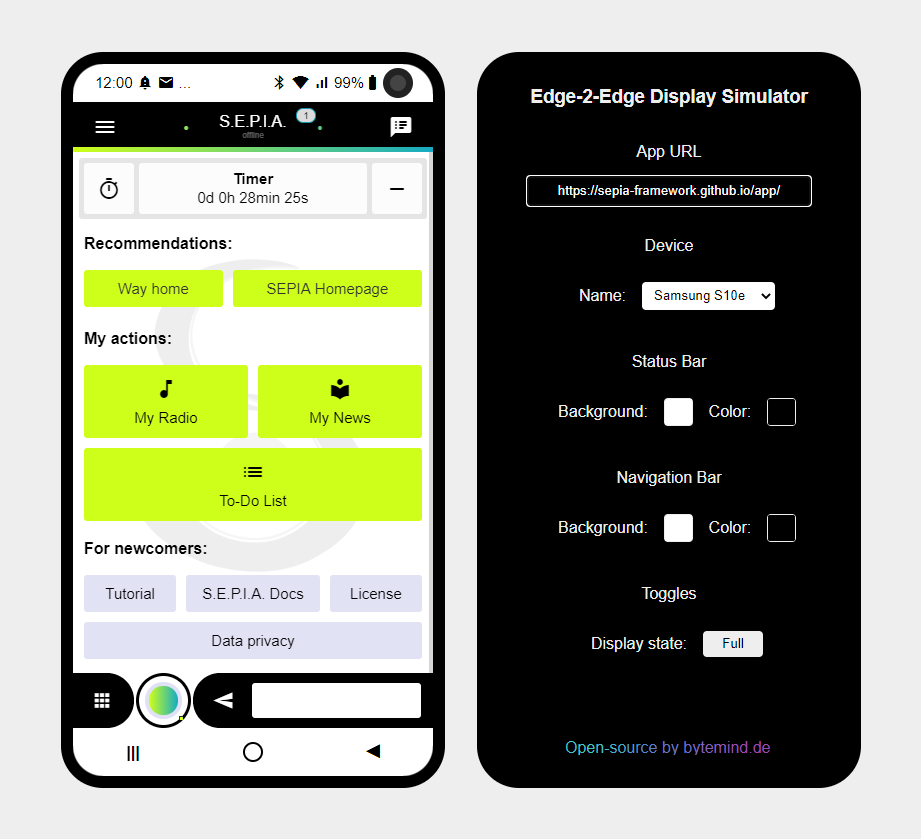
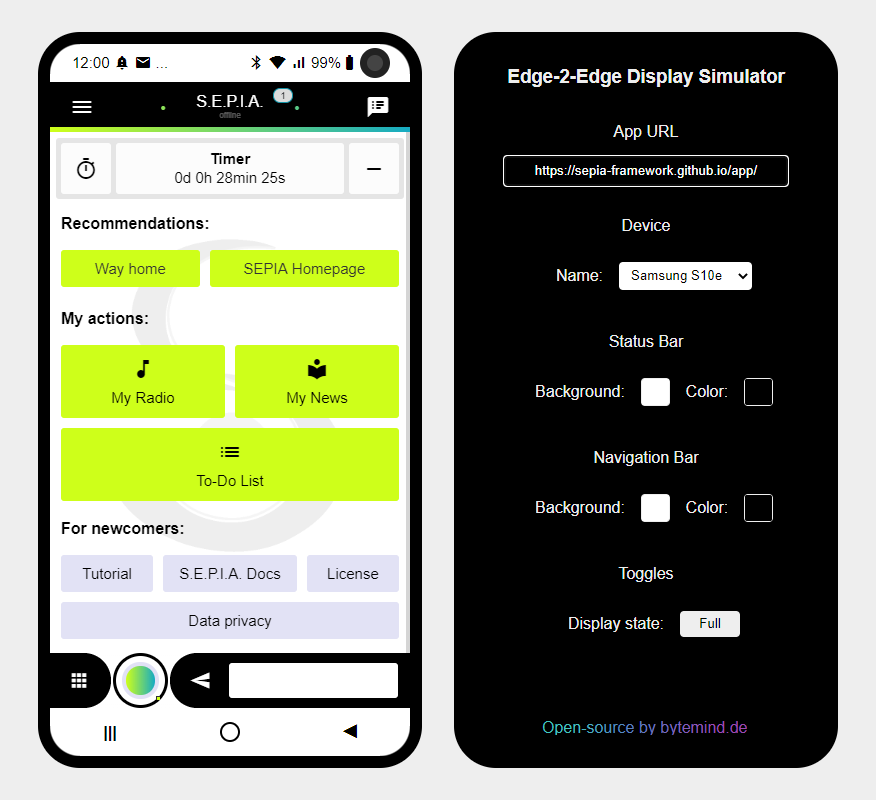
screenshot tweaks

diff --git a/README.md b/README.md
@@ -17,7 +17,7 @@ Check out how your web application REALLY looks like on modern smartphones! ;-)
 ## Screenshots
 
 <p align="center">
-  <img src="screenshots/edge-sq-sim.png" alt="EdgeSquare App"/>
+  <img src="screenshots/edge-sq-sim_2.png" alt="EdgeSquare using SEPIA App"/>
 </p>
 
 ## Licenses
